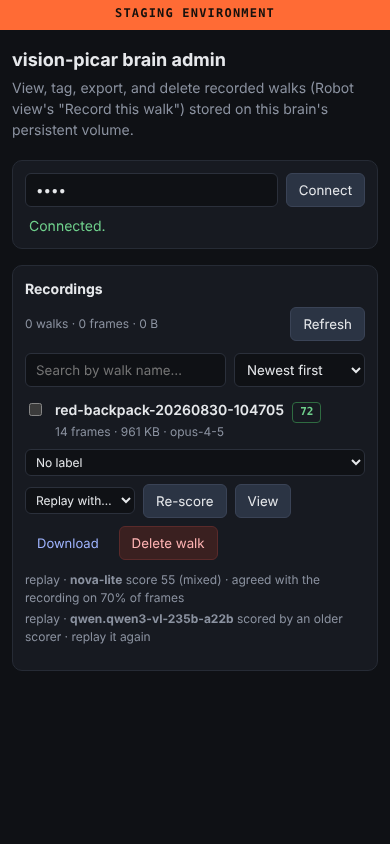
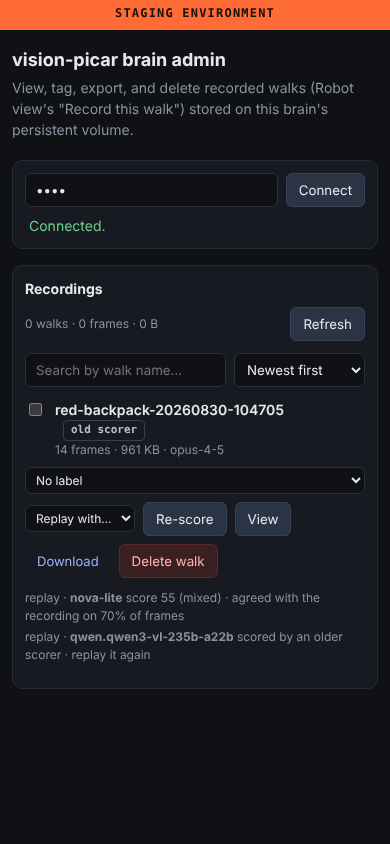
3.64 review: refusals shown at once, no rescheduling while hidden, only current-schema replays kept, stale cards marked not re-scored, brain errors worded by status
Found by /code-review and the Thermos bug pass; each fix red-first.

Claude-Session: https://claude.ai/code/session_01WM5j1wTUT9v76nuh5J6SV5

Changed region(s): [[0.0615, 0.4929, 0.8615, 0.8009], [0.8923, 0.5237, 0.9231, 0.5853], [0.7692, 0.4621, 0.8, 0.4929]]

diff --git a/web-twin/app.js b/web-twin/app.js
@@ -1424,7 +1424,10 @@
     });
     const data = await res.json().catch(function () { return {}; });
     if (!res.ok) {
-      const err = new Error(data.detail || ("HTTP " + res.status));
+      // A FastAPI 422's detail is a list; never show "[object Object]".
+      const detail = typeof data.detail === "string" ? data.detail
+        : (data.detail ? JSON.stringify(data.detail) : "");
+      const err = new Error(detail || ("HTTP " + res.status));
       // Kept so a caller can tell "the brain answered with an error" from
       // "nothing answered" -- see brainGone().
       err.status = res.status;
@@ -2373,13 +2376,19 @@
     } catch (e) {
       state.brainConnected = false;
       state.brainPerception = null;
-      if (!brainGone(e)) {
-        // 3.64 D7r: something answered -- most often a wrong tunnel prefix
-        // or path in the URL -- so "is it running?" points the wrong way.
+      const said = e.message && e.message !== "HTTP " + e.status ? " (" + e.message + ")" : "";
+      if (e.status === 404 || e.status === 405) {
+        // 3.64 D7r: no /health here -- most often a wrong tunnel prefix or
+        // path in the URL -- so "is it running?" points the wrong way.
         setConnStatus(statusEl, "err", "Not connected",
-          url + " answered HTTP " + e.status + " (" + e.message + "), but not as the "
-          + "brain service. Check the address and any tunnel path prefix.");
-        if (!silent) showToast("The brain address answered, but not as the brain service.", "err");
+          url + " answered HTTP " + e.status + said + ", but has no brain service "
+          + "there. Check the address and any tunnel path prefix.");
+        if (!silent) showToast("The brain address answered, but no brain service is there.", "err");
+      } else if (!brainGone(e)) {
+        // Anything else that answered came from the brain itself.
+        setConnStatus(statusEl, "err", "Not connected",
+          "The brain at " + url + " answered with an error: HTTP " + e.status + said + ".");
+        if (!silent) showToast("The brain service answered with an error.", "err");
       } else {
         setConnStatus(statusEl, "err", "Not connected", silent
           ? url + " didn't respond. Tap Connect to retry."
@@ -4164,6 +4173,11 @@
   // moment a call succeeds again (see guidanceErrorStreak reset above).
   function scheduleGuidanceNext(opts) {
     if (!state.guidanceRunning || state.guidancePaused) return;
+    // Hidden: the visibilitychange handler cleared the tick on purpose and
+    // reschedules on return. A call that lands meanwhile -- a success after
+    // an outage (3.64 A7) or a failure's backoff -- must not re-arm it, or a
+    // locked phone keeps making paid calls.
+    if (document.hidden) return;
     // With calls overlapping, more than one path can want to schedule the
     // next tick. `replace` is for the error path, which needs to push an
     // already-scheduled tick further out; without it a pending timer wins

diff --git a/control/admin.js b/control/admin.js
@@ -47,7 +47,13 @@
     const res = await fetch(path, opts);
     if (res.status === 204) return null;
     const data = await res.json().catch(function () { return {}; });
-    if (!res.ok) throw new Error(data.detail || ("HTTP " + res.status));
+    if (!res.ok) {
+      const detail = typeof data.detail === "string" ? data.detail
+        : (data.detail ? JSON.stringify(data.detail) : "");
+      const err = new Error(detail || ("HTTP " + res.status));
+      err.status = res.status;            // 3.64: a refusal is not a lost response
+      throw err;
+    }
     return data;
   }
 
@@ -357,6 +363,12 @@
   // walks) and must never be mistaken for a human judgement.
   function scoreBadge(ev) {
     if (!ev || ev.score == null) return "";
+    if (ev.stale) {
+      // 3.64 E2: an older scorer's number, not comparable with today's;
+      // Re-score is the person's call (it can be a paid judge run).
+      return '<span class="score-badge stale" title="Scored by an older scorer -- Re-score to compare">' +
+        "old scorer</span>";
+    }
     const verdict = ev.verdict || "";
     const flags = (ev.flags || []).length ? " · " + ev.flags.join(", ") : "";
     return '<span class="score-badge ' + escapeHtml(verdict) + '" title="' +
@@ -521,7 +533,12 @@
       } catch (e) {
         // A lost response, not a failure: the server finishes the job and
         // writes its sidecar. Look for THIS request's result first.
-        const recovered = before === null ? null
+        // Only a response that never arrived, or the gateway's own
+        // 502/503/504 with no detail of ours, is worth waiting out. A
+        // refusal the server answered (401, 404, 503 "no vision service")
+        // is shown at once -- it was polled for 15 minutes (3.64 review).
+        const lost = !e.status || (e.status >= 502 && e.status <= 504 && /^HTTP /.test(e.message));
+        const recovered = (before === null || !lost) ? null
           : await pollForReplay(w, modelId, promptVariant, before);
         if (recovered) {
           renderReplays();
@@ -614,7 +631,7 @@
           // A replay that lost too many frames says nothing about the model,
           // so it gets no number to compare -- reporting one is exactly how
           // three timed-out prompt variants came to look equivalent.
-          if (r.stale) {
+          if (r.stale && r.score != null) {
             // 3.64 E2: scored by an older scorer, so not comparable.
             return head + "scored by an older scorer · replay it again</div>";
           }

diff --git a/tests/test_ui_admin.py b/tests/test_ui_admin.py
@@ -399,3 +399,54 @@ def test_a_kept_score_note_fits_a_phone(browser, admin_server):
     assert box["x"] + box["width"] <= PHONE["width"], box
     assert not errors, errors
     page.close()
+
+
+def test_a_replay_the_server_refused_says_so_at_once(browser, admin_server):
+    """3.64, found by both reviewers on C1: every failed POST was treated as
+    a lost response and polled for 15 minutes -- a 503 "no vision service"
+    sat on "Replaying..." that long before saying anything."""
+    model = MODELS["models"][2]["id"]
+    page, errors = open_console(browser, admin_server, viewport=PHONE)
+    page.route("**/replays", lambda r: r.fulfill(
+        status=200, content_type="application/json", body=json.dumps({"replays": []})))
+    page.route("**/replay", lambda r: r.fulfill(
+        status=503, content_type="application/json",
+        body=json.dumps({"detail": "No vision service configured."})))
+    page.locator(".replay-select").first.select_option(model + "|default")
+    sync_api.expect(page.locator(".inline-err").first).to_contain_text(
+        "No vision service configured", timeout=3000)
+    assert not errors, errors
+    page.close()
+
+
+def test_an_older_scorers_card_is_marked_and_not_rescored_by_itself(browser, admin_server):
+    """3.64 E2, after review: a stale scorecard is marked as an older
+    scorer's, and the page does not start a paid judge run for it."""
+    walks = json.loads(json.dumps(WALKS))
+    walks["walks"][0]["eval"]["stale"] = True
+    context = browser.new_context(viewport=PHONE)
+    context.add_init_script(
+        '(() => { try { localStorage.setItem("vp_admin_secret", "test"); } catch (e) {} })();')
+    page = context.new_page()
+    scored = []
+    page.route("**/recording/models", lambda r: r.fulfill(
+        status=200, content_type="application/json", body=json.dumps(MODELS)))
+    page.route("**/recording/walks", lambda r: r.fulfill(
+        status=200, content_type="application/json", body=json.dumps(walks)))
+    page.route("**/recording/summary", lambda r: r.fulfill(
+        status=200, content_type="application/json", body=json.dumps({"rows": []})))
+    page.route("**/stats", lambda r: r.fulfill(
+        status=200, content_type="application/json", body=json.dumps({"walks": 2})))
+
+    def evaluation(route):
+        scored.append(route.request.url)
+        route.fulfill(status=200, content_type="application/json", body=json.dumps({"score": 0}))
+    page.route("**/evaluation", evaluation)
+    page.goto(admin_server + "/admin", wait_until="networkidle")
+    page.wait_for_selector(".walk", timeout=10_000)
+    page.wait_for_timeout(500)
+    badge = page.locator(".walk").first.locator(".score-badge")
+    sync_api.expect(badge).to_contain_text("old scorer")
+    assert not [u for u in scored if walks["walks"][0]["walk"] in u], scored
+    page.close()
+    context.close()

diff --git a/tests/test_admin_server.py b/tests/test_admin_server.py
@@ -131,9 +131,8 @@ def test_a_stale_schema_is_rescored_rather_than_served(client):
 
 def test_a_stale_schema_is_neither_listed_nor_summed(client):
     """3.64 E2: only the evaluation read rescored a stale scorecard. The walk
-    list showed its old score as current -- so the console's auto-scorer,
-    which scores only walks with NO eval, never refreshed it -- and the
-    per-model summary averaged it, replays included."""
+    list showed its old score as current, and the per-model summary
+    averaged it, replays included."""
     c, root = client
     walk_dir = make_walk(root, "walk-old", ["FORWARD"] * 4, model="m-old")
     stale = {"schema": admin_server.walk_eval.SCHEMA_VERSION - 1, "score": 999,
@@ -142,7 +141,9 @@ def test_a_stale_schema_is_neither_listed_nor_summed(client):
     (walk_dir / "replay-m-old.json").write_text(json.dumps(
         {**stale, "model_id": "m-old", "prompt_variant": "default"}))
     (row,) = [w for w in c.get("/recording/walks").json()["walks"] if w["walk"] == "walk-old"]
-    assert row["eval"] is None
+    # Listed, marked stale -- not auto-re-scored (a schema bump must not
+    # start paid judge runs over the corpus on the next page load).
+    assert row["eval"]["stale"] is True and row["eval"]["score"] == 999
     assert row["replays"][0]["stale"] is True
     assert c.get("/recording/summary").json()["rows"] == []
 
@@ -1374,3 +1375,15 @@ def test_an_unusable_replay_is_still_stored_when_there_is_nothing_to_keep(record
     c.post("/recording/walks/walk-first-bad/replay", json={})
     (stored,) = c.get("/recording/walks/walk-first-bad/replays").json()["replays"]
     assert stored["verdict"] == "unusable" and stored["score"] is None
+
+
+def test_an_older_scorers_replay_is_not_kept_over_an_unusable_one(recordings, monkeypatch):
+    """3.64, found by /code-review on C3: the kept record could be an older
+    scorer's, sent back as a current, comparable score."""
+    c, root = timing_out(recordings, monkeypatch, fails=8, total=10)
+    walk_dir = make_walk(root, "walk-old-replay", ["STOP"] * 10)
+    (walk_dir / "replay-_service_default_.json").write_text(json.dumps(
+        {"schema": admin_server.walk_eval.SCHEMA_VERSION - 1, "score": 71,
+         "model_id": "(service default)", "prompt_variant": "default", "replayed_at": 1.0}))
+    body = c.post("/recording/walks/walk-old-replay/replay", json={}).json()
+    assert body["score"] is None and "last_unusable" not in body

diff --git a/control/admin_server.py b/control/admin_server.py
@@ -581,12 +581,14 @@ def create_app(config_path=None, store=None) -> FastAPI:
         """The compact form the walk list shows -- never the full per-frame
         judge output, which is large and only wanted on one walk at a time."""
         ev = store.read_json(walk_name, EVAL_FILE_NAME)
-        if not ev or ev.get("schema") != walk_eval.SCHEMA_VERSION:
-            # 3.64 E2: an older scorer's card is not this scorer's score.
-            # Listed as unscored, so the console's auto-scorer re-scores it
-            # through GET /evaluation, which already refuses a stale one.
+        if not ev:
             return None
-        return {k: ev.get(k) for k in ("score", "verdict", "flags", "basis", "model_id")}
+        # 3.64 E2: an older scorer's card is not this scorer's score. Marked,
+        # not hidden: listing it as unscored would have the console's
+        # auto-scorer re-run the paid judge over the whole corpus after a
+        # schema bump. Re-score is the person's call; the summary skips it.
+        return {**{k: ev.get(k) for k in ("score", "verdict", "flags", "basis", "model_id")},
+                "stale": ev.get("schema") != walk_eval.SCHEMA_VERSION}
 
     @app.post("/recording/walks/{walk}/evaluate", dependencies=[Depends(require_secret)])
     async def evaluate_walk(walk: str, judge: bool = True):
@@ -711,7 +713,8 @@ def create_app(config_path=None, store=None) -> FastAPI:
                 kept = store.read_json(walk_name, name)
             except (OSError, WalkStoreError):
                 kept = None
-            if kept and kept.get("score") is not None:
+            if (kept and kept.get("score") is not None
+                    and kept.get("schema") == walk_eval.SCHEMA_VERSION):
                 kept["last_unusable"] = {k: result[k] for k in
                                          ("replayed_at", "coverage", "frames", "errors")}
                 result = kept

diff --git a/tests/test_ui_pipeline.py b/tests/test_ui_pipeline.py
@@ -316,6 +316,29 @@ def test_the_first_success_after_an_outage_resumes_the_normal_pace(browser, twin
         stub.close()
 
 
+def test_a_recovery_while_hidden_does_not_restart_the_loop(browser, twin_server):
+    """3.64, found by both reviewers on A7's fix: a call that succeeded after
+    an outage rescheduled the loop even with the page hidden, so a locked
+    phone kept making paid calls (and, under Drive via brain, robot steps)."""
+    fail = (0.05, "LEFT", 500)
+    stub = _Stub(plan={1: fail, 2: (2.0, "RIGHT")})
+    try:
+        page, errors = _start_robot_view(browser, twin_server, stub)
+        deadline = time.monotonic() + 10
+        while stub.total < 2 and time.monotonic() < deadline:
+            page.wait_for_timeout(100)
+        assert stub.total == 2, stub.total
+        page.evaluate(
+            "() => { Object.defineProperty(document, 'hidden', {configurable: true,"
+            " get: () => true}); document.dispatchEvent(new Event('visibilitychange')); }")
+        page.wait_for_timeout(4000)                  # call 2 succeeds meanwhile
+        assert not errors, errors
+        assert stub.total == 2, f"{stub.total - 2} call(s) made while the page was hidden"
+        page.context.close()
+    finally:
+        stub.close()
+
+
 # NOT COVERED HERE, and worth knowing about: drive-via-brain staying
 # serial. `guidanceStep` pins that mode to one call in flight because
 # MissionRunner advances one action at a time and its step budget and

diff --git a/tests/test_ui.py b/tests/test_ui.py
@@ -742,7 +742,25 @@ def test_a_brain_url_that_answers_404_is_not_called_unreachable(browser, twin_se
     text = " ".join(page.inner_text("#brain-connection-status").split())
     assert not errors, errors
     assert "Could not reach" not in text, text
-    assert "404" in text and "answered" in text, text
+    assert "404" in text and "answered" in text and "(HTTP 404)" not in text, text
+    page.context.close()
+
+
+def test_a_brain_that_answers_500_is_not_called_the_wrong_address(browser, twin_server):
+    """3.64, found by both reviewers on D7r: a 500 comes from the brain
+    itself, so "not as the brain service, check the address" sent people to
+    fix a right URL."""
+    page, errors = open_twin(browser, twin_server)
+    page.route("**/broken-brain/health", lambda route: route.fulfill(
+        status=500, content_type="application/json", body='{"detail":"boom"}'))
+    page.click("#btn-settings")
+    page.fill("#cfg-brain-url", twin_server + "/broken-brain")
+    page.click("#btn-brain-connect")
+    page.wait_for_timeout(800)
+    text = " ".join(page.inner_text("#brain-connection-status").split())
+    assert not errors, errors
+    assert "not as the brain" not in text and "Could not reach" not in text, text
+    assert "500" in text and "boom" in text, text
     page.context.close()
 
 

diff --git a/docs/engineering/twin/ENGINEERING.md b/docs/engineering/twin/ENGINEERING.md
@@ -124,7 +124,7 @@ shared with the tunnel proxy").
 | Constant | Value | Unit | Where | Why |
 |---|---|---|---|---|
 | `GUIDANCE_THROTTLE_MS`, `ROBOT_THROTTLE_MS` | 500 | ms | Guide loop | Gap between dispatches |
-| `GUIDANCE_MAX_IN_FLIGHT` | 2 (1 under Drive via brain) | calls | `guidanceStep()` | At 8 concurrent replay workers Bedrock throttled 10 of 22 frames; a mission must decide from the current frame. `guidanceStep()` also returns at once while the run is paused (3.53): a tick scheduled before the pause used to dispatch anyway and reset the caption to "Deciding...". Stop zeroes the count and bumps `guidanceEpoch`; a call from an earlier epoch never decrements it (3.64), and coming back to a hidden page reschedules even with calls in flight |
+| `GUIDANCE_MAX_IN_FLIGHT` | 2 (1 under Drive via brain) | calls | `guidanceStep()` | At 8 concurrent replay workers Bedrock throttled 10 of 22 frames; a mission must decide from the current frame. `guidanceStep()` also returns at once while the run is paused (3.53): a tick scheduled before the pause used to dispatch anyway and reset the caption to "Deciding...". Stop zeroes the count and bumps `guidanceEpoch`; a call from an earlier epoch never decrements it (3.64), and coming back to a hidden page reschedules even with calls in flight; nothing reschedules while the page is hidden |
 | `LATE_POLL_MS` | 3000 | ms | `watchLateConfirmation()` | The brain probes the cloud every 15 s (3.53); slower than the mission poll on purpose |
 | `--accent-warn` | `#F2C94C` | colour | `.warn`, `.v-warn`, `.toast.warn` | 3.53: neither success nor failure -- `arrived_unconfirmed` |
 | Error backoff | `min(30000, base * 2^streak)` | ms | Guide loop | Replaces the scheduled tick rather than adding to it; the first success after failures replaces it back with the base throttle (3.64) |
@@ -207,11 +207,11 @@ neighbours.
 
 | Test | Collected | What it pins |
 |---|---|---|
-| `tests/test_ui.py` | 130 | At `PHONE = 390x844`: the Cloud row on the Guide HUD (`CLD`, live and stale) and on the panel while a parked arrival waits; the panel's Cloud row -- unknown, `unreachable since` in the warn colour, `reachable` in the safe colour, an hour-old answer as `last seen ... at` uncoloured (by the brain's `age_s`), and never "reachable" from a brain that sends no `cloud` (3.56); `arrived_unconfirmed` as a warning on the panel (class, toast, the late answer landing, also on a page that connects after the ending; the watch stopped by a Guide start and by a dead brain, and resumed after a refused one) and on the Guide tab (an outcome, not `ERR LINK`, and the caption holds past the next tick) (3.53); the page loads with no script error; the model picker populates and is readable; endpoint notices; secret and reachability errors; recording refuses without a brain; no double walk on a double tap; the env banner; the policy pickers and hints for vision and tiered; the depth strip (zones, path, blind and unmeasurable states, the missing route); the turn step sent and remembered; driver and refusal readouts; the health line (ok, unhealthy, a robot against a wall still ok); spin and sized turns; brain auto-reconnect; tier readouts and "not enforced" corroboration; the Arrival row (a refusal in the alert colour with the cloud's reason, an arrival with its range and the cloud's confirmation, nothing before a judgement, readable at 390 px); the cloud check's cross-origin diagnosis; the ngrok header only to tunnel hosts; odometry; the pacing row; the map at server size, unknown cells, the SLAM ghost, tap-to-goal only on SLAM; 3.64: no endpoint notice for a default derived from this page, a brain URL that answers 404 is not called unreachable |
-| `tests/test_ui_pipeline.py` | 8 | Against a real threaded stub: calls overlap, concurrency is capped, an overtaken answer is not drawn, overlapping frames get distinct sequence numbers, a previous session's answer never reaches the next; 3.64: the cap holds after Stop mid-call, coming back to the page mid-call keeps the loop going, the first success after an outage resumes the normal pace |
+| `tests/test_ui.py` | 131 | At `PHONE = 390x844`: the Cloud row on the Guide HUD (`CLD`, live and stale) and on the panel while a parked arrival waits; the panel's Cloud row -- unknown, `unreachable since` in the warn colour, `reachable` in the safe colour, an hour-old answer as `last seen ... at` uncoloured (by the brain's `age_s`), and never "reachable" from a brain that sends no `cloud` (3.56); `arrived_unconfirmed` as a warning on the panel (class, toast, the late answer landing, also on a page that connects after the ending; the watch stopped by a Guide start and by a dead brain, and resumed after a refused one) and on the Guide tab (an outcome, not `ERR LINK`, and the caption holds past the next tick) (3.53); the page loads with no script error; the model picker populates and is readable; endpoint notices; secret and reachability errors; recording refuses without a brain; no double walk on a double tap; the env banner; the policy pickers and hints for vision and tiered; the depth strip (zones, path, blind and unmeasurable states, the missing route); the turn step sent and remembered; driver and refusal readouts; the health line (ok, unhealthy, a robot against a wall still ok); spin and sized turns; brain auto-reconnect; tier readouts and "not enforced" corroboration; the Arrival row (a refusal in the alert colour with the cloud's reason, an arrival with its range and the cloud's confirmation, nothing before a judgement, readable at 390 px); the cloud check's cross-origin diagnosis; the ngrok header only to tunnel hosts; odometry; the pacing row; the map at server size, unknown cells, the SLAM ghost, tap-to-goal only on SLAM; 3.64: no endpoint notice for a default derived from this page, a brain URL that answers 404 is not called unreachable |
+| `tests/test_ui_pipeline.py` | 9 | Against a real threaded stub: calls overlap, concurrency is capped, an overtaken answer is not drawn, overlapping frames get distinct sequence numbers, a previous session's answer never reaches the next; 3.64: the cap holds after Stop mid-call, coming back to the page mid-call keeps the loop going, the first success after an outage resumes the normal pace |
 | `tests/test_frame_source.py` | 3 | The readout says `server` for a real frame, and `none` (with nothing drawn) for a frame with no pixels |
 | `tests/test_static_assets.py` | 10 | Every file both pages and the manifest reference is published; keys mirror paths; `admin` stays extensionless; pages and scripts are no-cache; `sync.sh` reads the same manifest |
-| `tests/test_ui_admin.py` | 12 | The admin console at phone width (recordings domain) |
+| `tests/test_ui_admin.py` | 15 | The admin console at phone width (recordings domain) |
 
 The UI tests skip without Chromium. A green run without a browser has
 tested nothing here.

diff --git a/docs/plans/ros-alignment/3.64-older-review-bugs.md b/docs/plans/ros-alignment/3.64-older-review-bugs.md
@@ -55,7 +55,7 @@ reason in the table; each passes with its fix.
 | B2 | `test_ui.py::test_no_notice_for_the_defaults_this_page_derived_itself`: the brain note showed with nothing saved | `derivedEndpoints`: a field still holding the default init derived from this page's host is not compared; a typed or saved value still is |
 | C1 | `test_ui_admin.py::test_a_timed_out_replay_waits_for_the_new_result_not_the_old_one`: the console showed the old score 81 | The console snapshots the stored record's stamp (`replayed_at`, `last_unusable.replayed_at`) before the POST and accepts only a record whose stamp differs; it polls every 10 s for up to 900 s (the function's limit), not 30 s. Server time only, never the browser's clock |
 | C3 | `test_admin_server.py::test_an_unusable_replay_never_replaces_a_scored_one` | An unusable replay over a scored one keeps the scored record and adds `last_unusable`; the console says so ("Only N% of frames came back -- kept the earlier score") |
-| E2 | `test_admin_server.py::test_a_stale_schema_is_neither_listed_nor_summed` | A stale `eval.json` is listed as `eval: null` (so the auto-scorer re-scores it through the route that already refuses stale cards); stale evals and replays are left out of the summary; a stale replay is marked and shown as "scored by an older scorer · replay it again" |
+| E2 | `test_admin_server.py::test_a_stale_schema_is_neither_listed_nor_summed` | A stale `eval.json` is listed with `stale: true` and shown as "old scorer"; stale evals and replays are left out of the summary; a stale replay is shown as "scored by an older scorer · replay it again". First built as "list it as unscored", which had the console's auto-scorer start paid judge runs over the whole corpus after a schema bump; changed on review (below) |
 | F1 | none: a deletion | `vision_proximity_veto` removed from `brain/agent.py`, `control/mission_runner.py`, its four tests and five documents |
 | D7r | `test_ui.py::test_a_brain_url_that_answers_404_is_not_called_unreachable` | An answered status (anything `brainGone()` does not count as gone) says the address answered, but not as the brain, and to check the address and tunnel prefix |
 
@@ -65,10 +65,51 @@ rule. Fixed (`.status.inline-err`), pinned by
 `test_a_kept_score_note_fits_a_phone`, red before. Screenshots:
 `docs/evaluations/twin-3.64-*.png`.
 
-**E2's cost, stated:** a walk whose scorecard is stale is re-scored when the
-console next loads -- with the judge, where enabled, which is paid. One
-judge pass per stale walk, serialised; the same thing the Evaluate button
-already did one walk at a time.
+**E2 starts no paid call.** Re-scoring a stale walk stays the person's
+Re-score button.
+
+## Review
+
+`/code-review` and the Thermos bug pass on the three commits. Fixed, each
+with a test shown red without it:
+
+* **Both:** a replay the server refused (503 "no vision service", 401,
+  404) was polled for 15 minutes as if its response were lost. The console
+  now polls only for no response or a bare gateway 502/503/504
+  (`test_a_replay_the_server_refused_says_so_at_once`).
+* **Both:** A7's reschedule re-armed the loop with the page hidden, so a
+  locked phone kept calling. `scheduleGuidanceNext()` does nothing while
+  hidden, which also closes the same door on the error path's backoff
+  (`test_a_recovery_while_hidden_does_not_restart_the_loop`).
+* **Both:** C3 kept an older scorer's record as a current score. Only a
+  current-schema record is kept
+  (`test_an_older_scorers_replay_is_not_kept_over_an_unusable_one`).
+* **Both:** D7r's "not as the brain service" fired for a 500, which comes
+  from the brain itself. Now 404/405 say "no brain service there"; any
+  other answered status says the brain answered with an error
+  (`test_a_brain_that_answers_500_is_not_called_the_wrong_address`). The
+  bug pass: a FastAPI 422's list `detail` read "[object Object]" -- both
+  pages now stringify it; "HTTP 404 (HTTP 404)" no longer repeats.
+* **`/code-review`:** E2's paid re-scoring, above
+  (`test_an_older_scorers_card_is_marked_and_not_rescored_by_itself`).
+* **Bug pass:** a stale replay with no score read "scored by an older
+  scorer"; now only a scored one does.
+
+Not changed, with the reason:
+
+* Polling reads the whole replay list (diffs included) every 10 s: only
+  after a lost response, at most 90 reads of a few sidecars.
+* A replay whose sidecar write fails after a lost response is reported as
+  failed after 15 minutes: the write failure is logged; the result exists
+  only in the lost response, so "failed" is what the operator can act on.
+* If the snapshot read before the POST fails, a lost response is reported
+  as failed though the replay may be stored: a reload shows it, and
+  guessing would bring back C1.
+* Drive via brain can overlap one old step with the new run's first after
+  Stop then Start: Stop zeroed the count before 3.64 too, and Stop posts
+  `/mission/stop`, which ends the mission the old step belonged to.
+* Two tabs replaying the same model and prompt at once can overwrite each
+  other: CLAUDE.md section 6 already says never to stack replays.
 
 **Criterion 5: merged, not deployed.** B1 needs the vision Lambda, C3 and
 E2 the walks Lambda, A2/A4/A7/B2/D7r the twin's static files, and C1/C3/E2

diff --git a/docs/engineering/recordings/ENGINEERING.md b/docs/engineering/recordings/ENGINEERING.md
@@ -60,8 +60,8 @@ routes and the page routes):
 | `PUT /recording/walks/{walk}/tag` | `{label}` in `good`, `bad`, `training-ready`; empty or null clears it. 400 otherwise. |
 | `PUT /recording/walks/{walk}/meta` | Merges `model_id`, `target_object`, `note` into `meta.json` |
 | `POST /recording/walks/{walk}/evaluate?judge=true` | Recomputes and overwrites `eval.json` (manual) |
-| `GET /recording/walks/{walk}/evaluation` | `eval.json` if its `schema` is current, else computes it (with the judge, when enabled) and stores it. This lazy read is the ONLY automatic scoring path: `POST /recording/finish` writes `meta.json` and never scores. `GET /recording/walks` only reads an existing `eval.json`, and lists one whose `schema` is not current as `eval: null` (3.64), so the console re-scores it. The console calls this route on page load for FINISHED walks only (`scorePendingWalks()` in `control/admin.js` filters `w.finished && !w.eval`), one at a time; an unfinished walk (no `meta.json`) is never scored automatically, only by the Evaluate button (`POST .../evaluate`). Any other client that GETs this route on an unfinished walk does score it. |
-| `POST /recording/walks/{walk}/replay` | `{model_id, prompt_variant}`, synchronous. Each frame goes to `/navigate` through `post_navigate()`, which always sends `media_type: image/jpeg` (even for a `.png` or `.webp` frame) and never sends `searched_rooms` (Known gaps). 503 only when no vision URL is configured (checked before any frame). Otherwise per-frame failures are swallowed by `replay_walk()`, counted in `errors` and described in `diff[].error`; below `REPLAY_MIN_COVERAGE` the sidecar is stored with `verdict: unusable`, `score: null`, flag `incomplete`, and the route returns **200** with that record. A vision service that is entirely down therefore yields a 200 `unusable` replay, not a 503. **An unusable replay never replaces a scored one** (3.64): the scored sidecar is kept, gains `last_unusable{replayed_at, coverage, frames, errors}`, and is what the route returns. The console snapshots the stored record's stamp (`replayed_at` and `last_unusable.replayed_at`) before the POST and, when the response is lost (API Gateway gives up at 30 s; the function runs up to 900 s), polls `.../replays` every 10 s for up to 900 s for a record whose stamp differs. |
+| `GET /recording/walks/{walk}/evaluation` | `eval.json` if its `schema` is current, else computes it (with the judge, when enabled) and stores it. This lazy read is the ONLY automatic scoring path: `POST /recording/finish` writes `meta.json` and never scores. `GET /recording/walks` only reads an existing `eval.json`, and marks one whose `schema` is not current `stale: true` (3.64); the console shows it as "old scorer" and never re-scores it by itself (that can be a paid judge run). The console calls this route on page load for FINISHED walks only (`scorePendingWalks()` in `control/admin.js` filters `w.finished && !w.eval`), one at a time; an unfinished walk (no `meta.json`) is never scored automatically, only by the Evaluate button (`POST .../evaluate`). Any other client that GETs this route on an unfinished walk does score it. |
+| `POST /recording/walks/{walk}/replay` | `{model_id, prompt_variant}`, synchronous. Each frame goes to `/navigate` through `post_navigate()`, which always sends `media_type: image/jpeg` (even for a `.png` or `.webp` frame) and never sends `searched_rooms` (Known gaps). 503 only when no vision URL is configured (checked before any frame). Otherwise per-frame failures are swallowed by `replay_walk()`, counted in `errors` and described in `diff[].error`; below `REPLAY_MIN_COVERAGE` the sidecar is stored with `verdict: unusable`, `score: null`, flag `incomplete`, and the route returns **200** with that record. A vision service that is entirely down therefore yields a 200 `unusable` replay, not a 503. **An unusable replay never replaces a scored one of the current schema** (3.64): that sidecar is kept, gains `last_unusable{replayed_at, coverage, frames, errors}`, and is what the route returns. The console snapshots the stored record's stamp (`replayed_at` and `last_unusable.replayed_at`) before the POST and, when the response is lost (API Gateway gives up at 30 s; the function runs up to 900 s), polls `.../replays` every 10 s for up to 900 s for a record whose stamp differs -- only when no response came back or the gateway answered a bare 502/503/504; a refusal the server answered is shown at once. |
 | `GET /recording/walks/{walk}/replays` | Every stored `replay-*.json` |
 | `GET /recording/models` | Relays the vision service's `/navigate/models`. An empty list (never an error) when unreachable. |
 | `GET /recording/summary` | Per (model, prompt, source) rows over scored walks and replays: `mean_score`, `median_score`, `best`, `worst`, `reach_rate`, `collisions`, `flags`, `median_frames`. Rows with collisions sort last. Anything with a null or missing score is skipped, which includes `unusable` replays and every metrics container (no `eval.json`, no replays), and so is any `eval.json` or replay whose `schema` is not current (3.64). |
